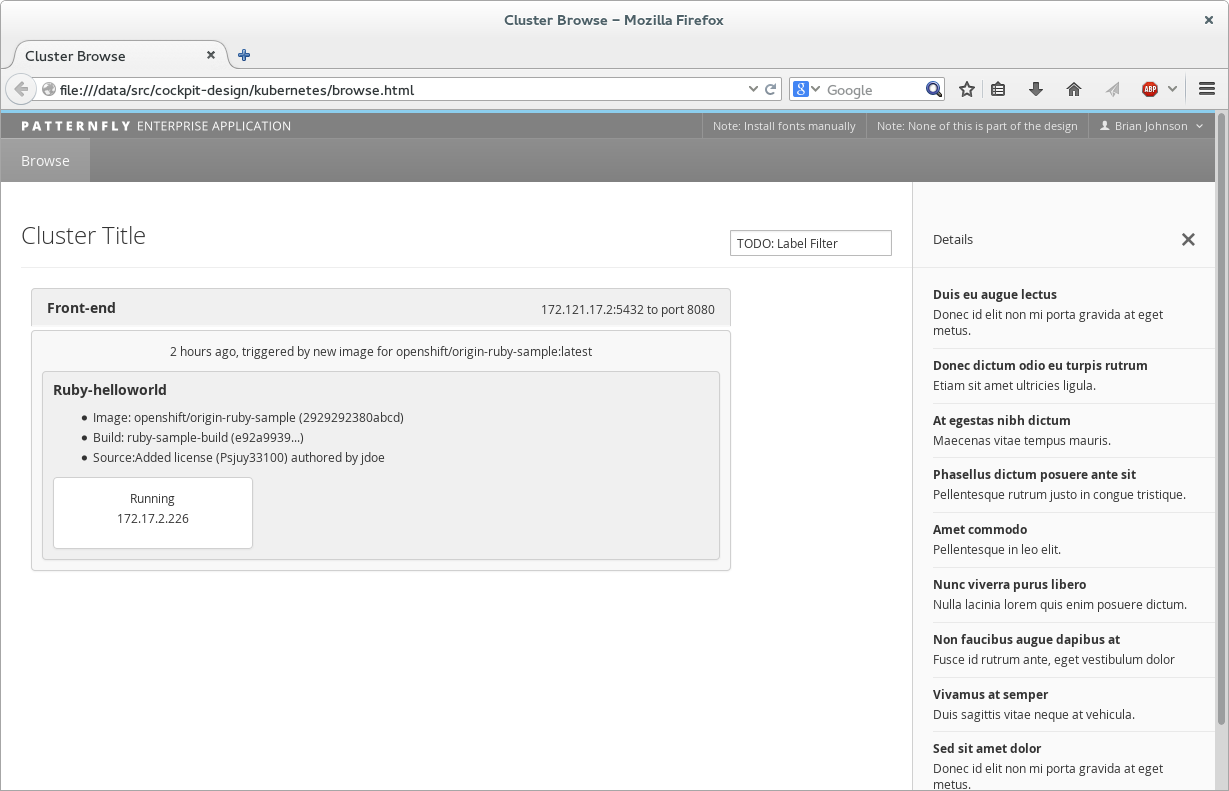
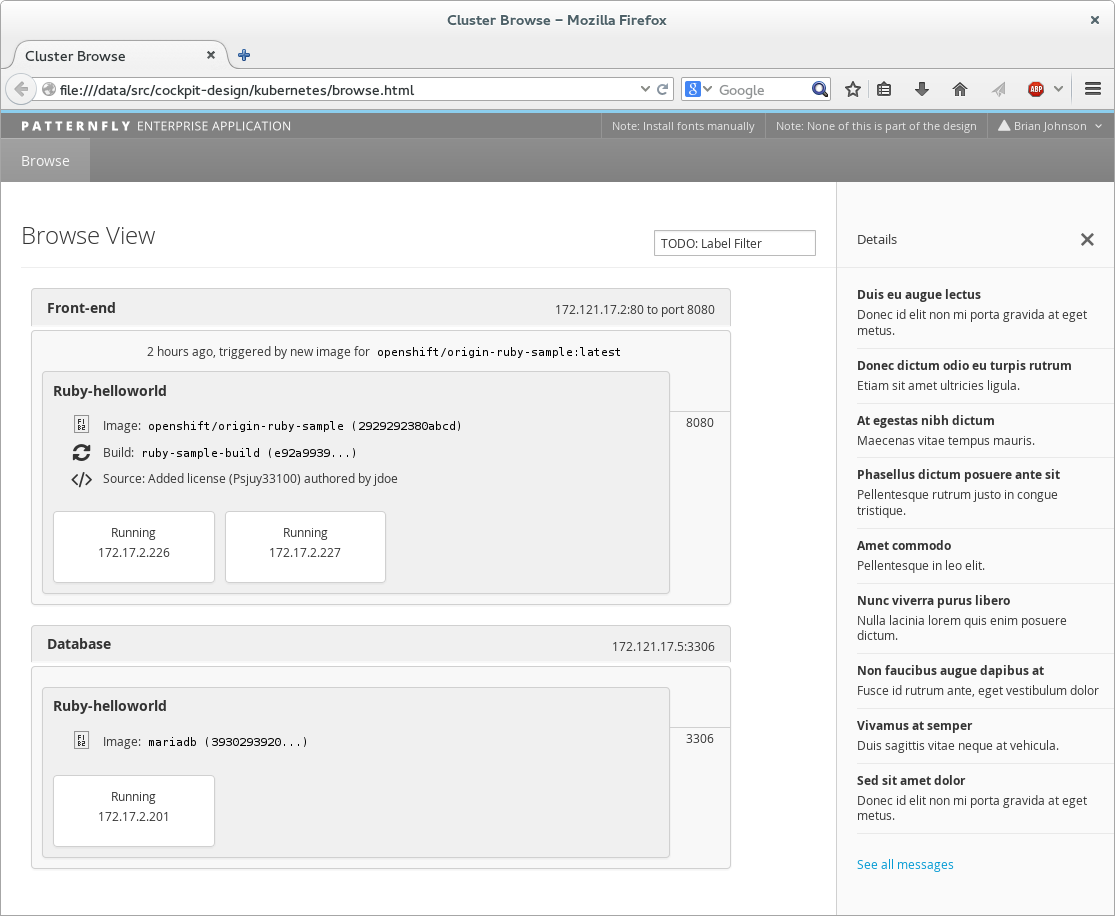
kubernetes: More work on the browse view

diff --git a/kubernetes/browse.html b/kubernetes/browse.html
@@ -63,7 +63,7 @@
               <input class="form-control" type="text" value="TODO: Label Filter">
             </div>
             <!-- Contextual title -->
-            <h1>Cluster Title</h1>
+            <h1>Browse View</h1>
           </div>
 
           <div class="kube-browse">
@@ -71,26 +71,65 @@
             <div class="kube-service panel-heading">
               <span class="pull-right" title="TCP">
                 <!-- for non-TCP traffic, we display the transport layer protocol. Otherwise TCP is assumed -->
-                172.121.17.2:5432 to port 8080
+                172.121.17.2:80 to port 8080
               </span>
               <!-- The name of the service -->
               <h3 class="panel-title">Front-end</h3>
             </div>
 
             <div class="kube-deploy-config panel">
-                <span>2 hours ago, triggered by new image for openshift/origin-ruby-sample:latest</span>
+                <div>
+                    2 hours ago, triggered by new image for <code>openshift/origin-ruby-sample:latest</code>
+                </div>
+
+                <div class="kube-ports">
+                    8080
+                </div>
 
                 <div class="kube-deployment panel">
                     <h3 class="panel-title">Ruby-helloworld</h3>
 
-                    <ul>
-                        <li>Image: openshift/origin-ruby-sample (2929292380abcd)</li>
-                        <li>Build: ruby-sample-build (e92a9939...)</li>
-                        <li>Source:Added license (Psjuy33100) authored by jdoe</li>
+                    <ul class="fa-ul">
+                        <li><i class="fa-li fa fa-cube"></i>Image: <code>openshift/origin-ruby-sample (2929292380abcd)</code></li>
+                        <li><i class="fa-li fa fa-refresh"></i>Build: <code>ruby-sample-build (e92a9939...)</code></li>
+                        <li><i class="fa-li fa fa-code"></i></span>Source: Added license (Psjuy33100) authored by jdoe</li>
                     </ul>
 
-                    <div class="kube-pod panel">
-                        <p>Running<br>172.17.2.226</p>
+                    <div class="row">
+                        <div class="col-md-3 kube-pod panel">
+                            <p>Running<br>172.17.2.226</p>
+                        </div>
+                        <div class="col-md-3 kube-pod panel">
+                            <p>Running<br>172.17.2.227</p>
+                        </div>
+                    </div>
+                </div>
+            </div>
+
+            <div class="kube-service panel-heading">
+              <span class="pull-right" title="TCP">
+                <!-- for non-TCP traffic, we display the transport layer protocol. Otherwise TCP is assumed -->
+                172.121.17.5:3306
+              </span>
+              <!-- The name of the service -->
+              <h3 class="panel-title">Database</h3>
+            </div>
+
+            <div class="kube-deploy-config panel">
+                <div class="kube-ports">
+                    3306
+                </div>
+                <div class="kube-deployment panel">
+                    <h3 class="panel-title">Ruby-helloworld</h3>
+
+                    <ul class="fa-ul">
+                        <li><i class="fa-li fa fa-cube"></i>Image: <code>mariadb (3930293920...)</code></li>
+                    </ul>
+
+                    <div class="row">
+                        <div class="col-md-3 kube-pod panel">
+                            <p>Running<br>172.17.2.201</p>
+                        </div>
                     </div>
                 </div>
             </div>

diff --git a/kubernetes/browse.css b/kubernetes/browse.css
@@ -23,6 +23,7 @@
     background-color: #F8F8F8;
     text-align: center;
     padding: 10px;
+    padding-right: 0px;
 }
 
 .kube-deployment {
@@ -34,10 +35,11 @@
     padding: 10px;
     margin-top: 10px;
     margin-bottom: 0px;
+    margin-right: 60px;
 }
 
-.kube-deployment H3 {
-    margin-bottom: 10px;
+.kube-deployment h3 {
+    margin-bottom: 15px;
 }
 
 .kube-pod {
@@ -48,6 +50,32 @@
     border-radius: 4px;
     padding: 10px;
     margin-top: 10px;
+    margin-right: 10px;
     margin-bottom: 0px;
     max-width: 200px;
+}
+
+.kube-pod:first-child {
+    margin-left: 20px;
+}
+
+.kube-deployment .fa-li {
+    font-size: 20px;
+}
+
+.kube-deployment ul {
+    line-height: 25px;
+    margin-left: 50px;
+}
+
+.kube-browse code {
+    color: black;
+    background-color: inherit;
+}
+
+.kube-ports {
+    float: right;
+    border-top: 1px solid #D0D0D0;
+    margin-top: 50px;
+    width: 60px;
 }
